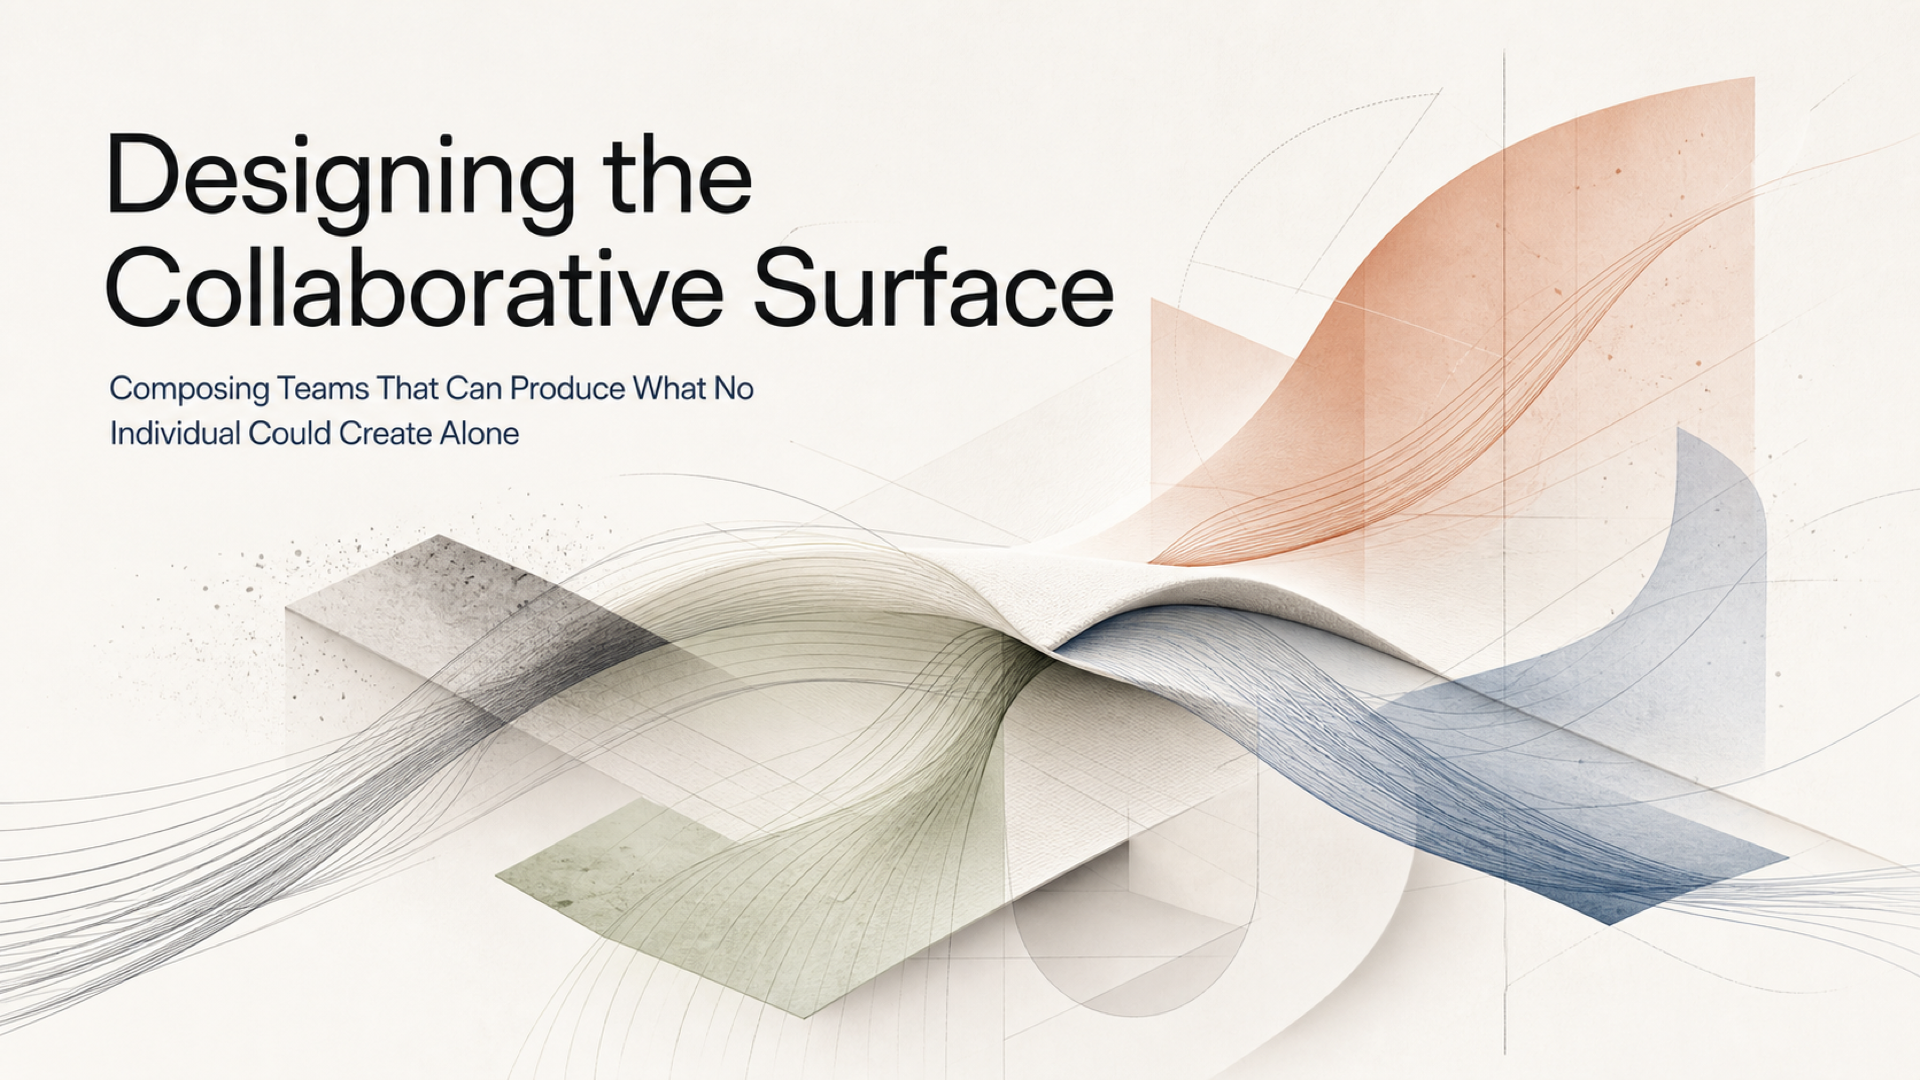
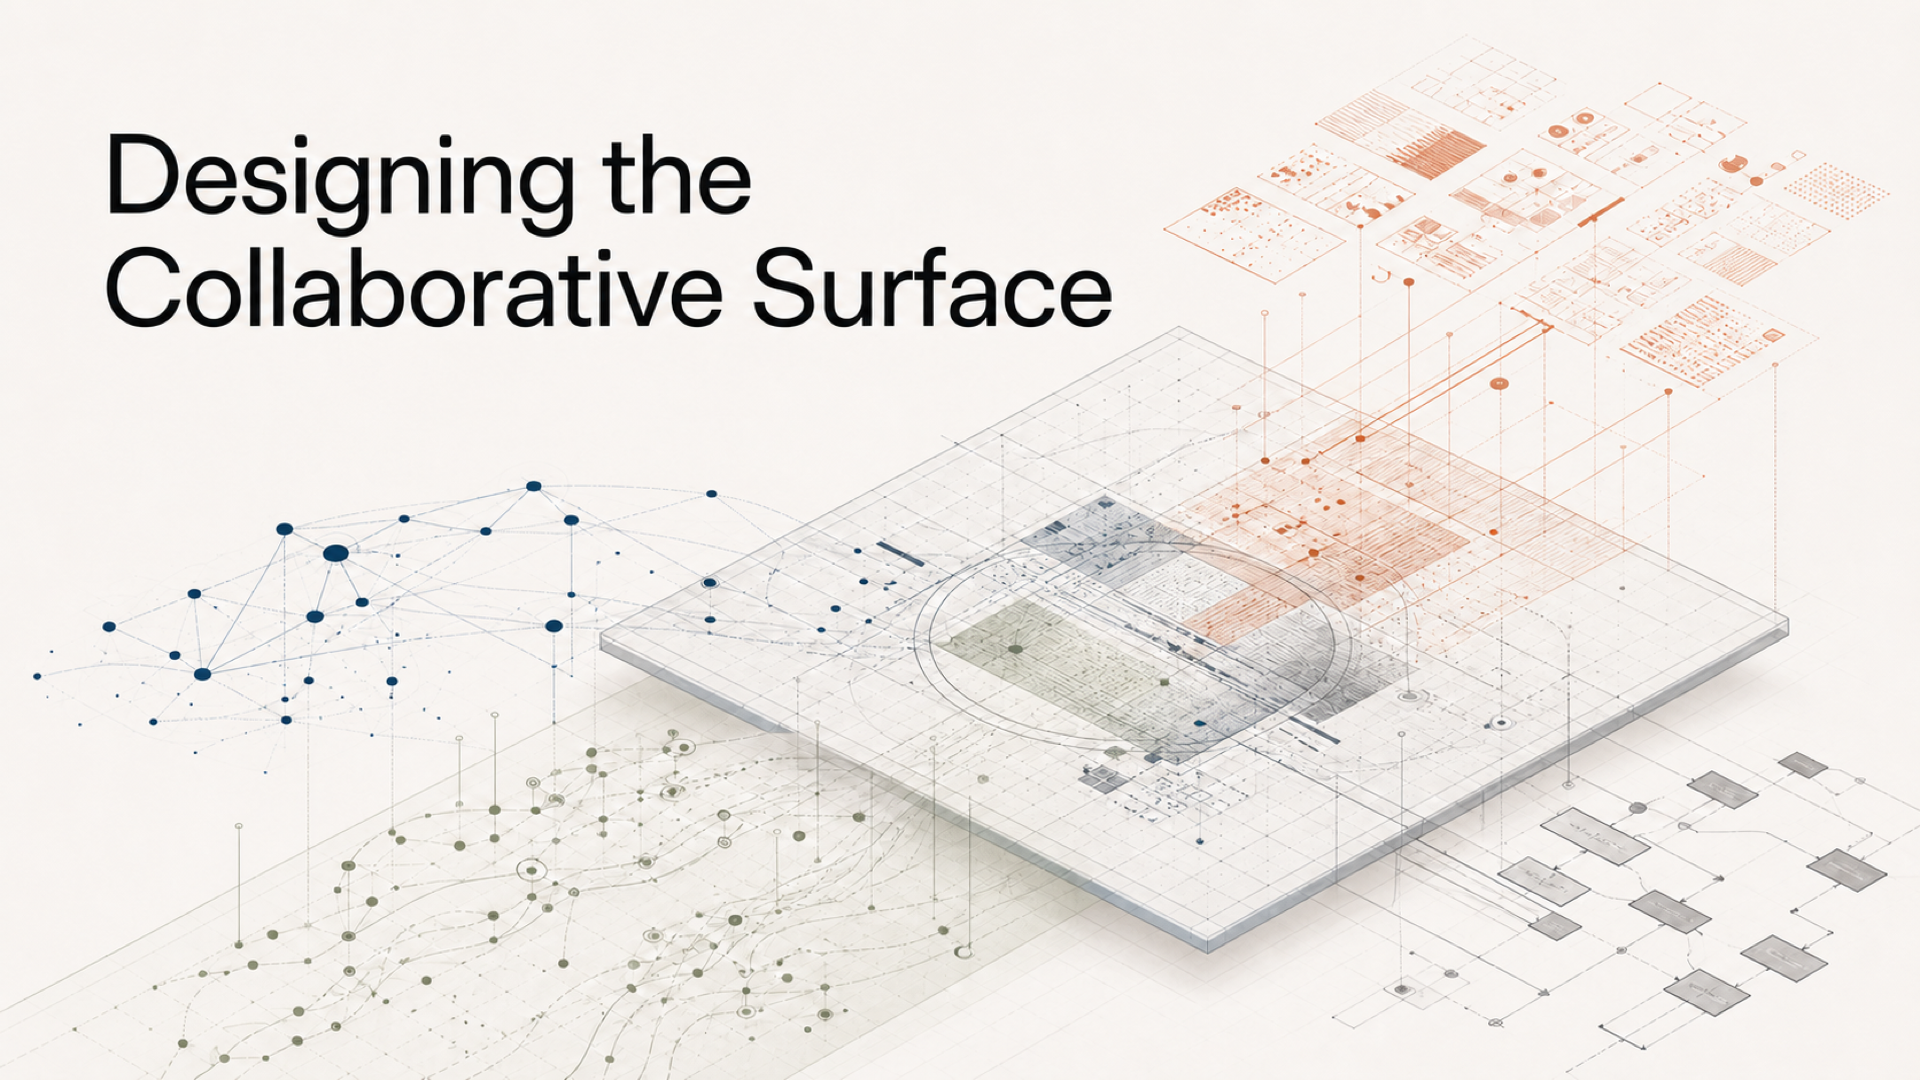
Replace collaborative surface hero

diff --git a/src/pages/writing/papers/designing-the-collaborative-surface.md b/src/pages/writing/papers/designing-the-collaborative-surface.md
@@ -5,7 +5,7 @@ subtitle: "Composing Teams That Can Produce What No Individual Could Create Alon
 description: "A design philosophy for composing distinct capabilities, shared vernacular, governance, and facilitation into collaborative surfaces that produce stronger decisions and better products."
 pubDate: "2026-07-14"
 heroImage: "/images/writing/designing-the-collaborative-surface.png"
-heroAlt: "Abstract intersecting planes and trajectories converging into a shared surface beneath the title Designing the Collaborative Surface."
+heroAlt: "Distinct technical, behavioral, visual, and organizational systems converging on an architectural working surface beneath the title Designing the Collaborative Surface."
 tags: ["Design", "Leadership", "Systems Thinking"]
 tier: "tier-1"
 ---